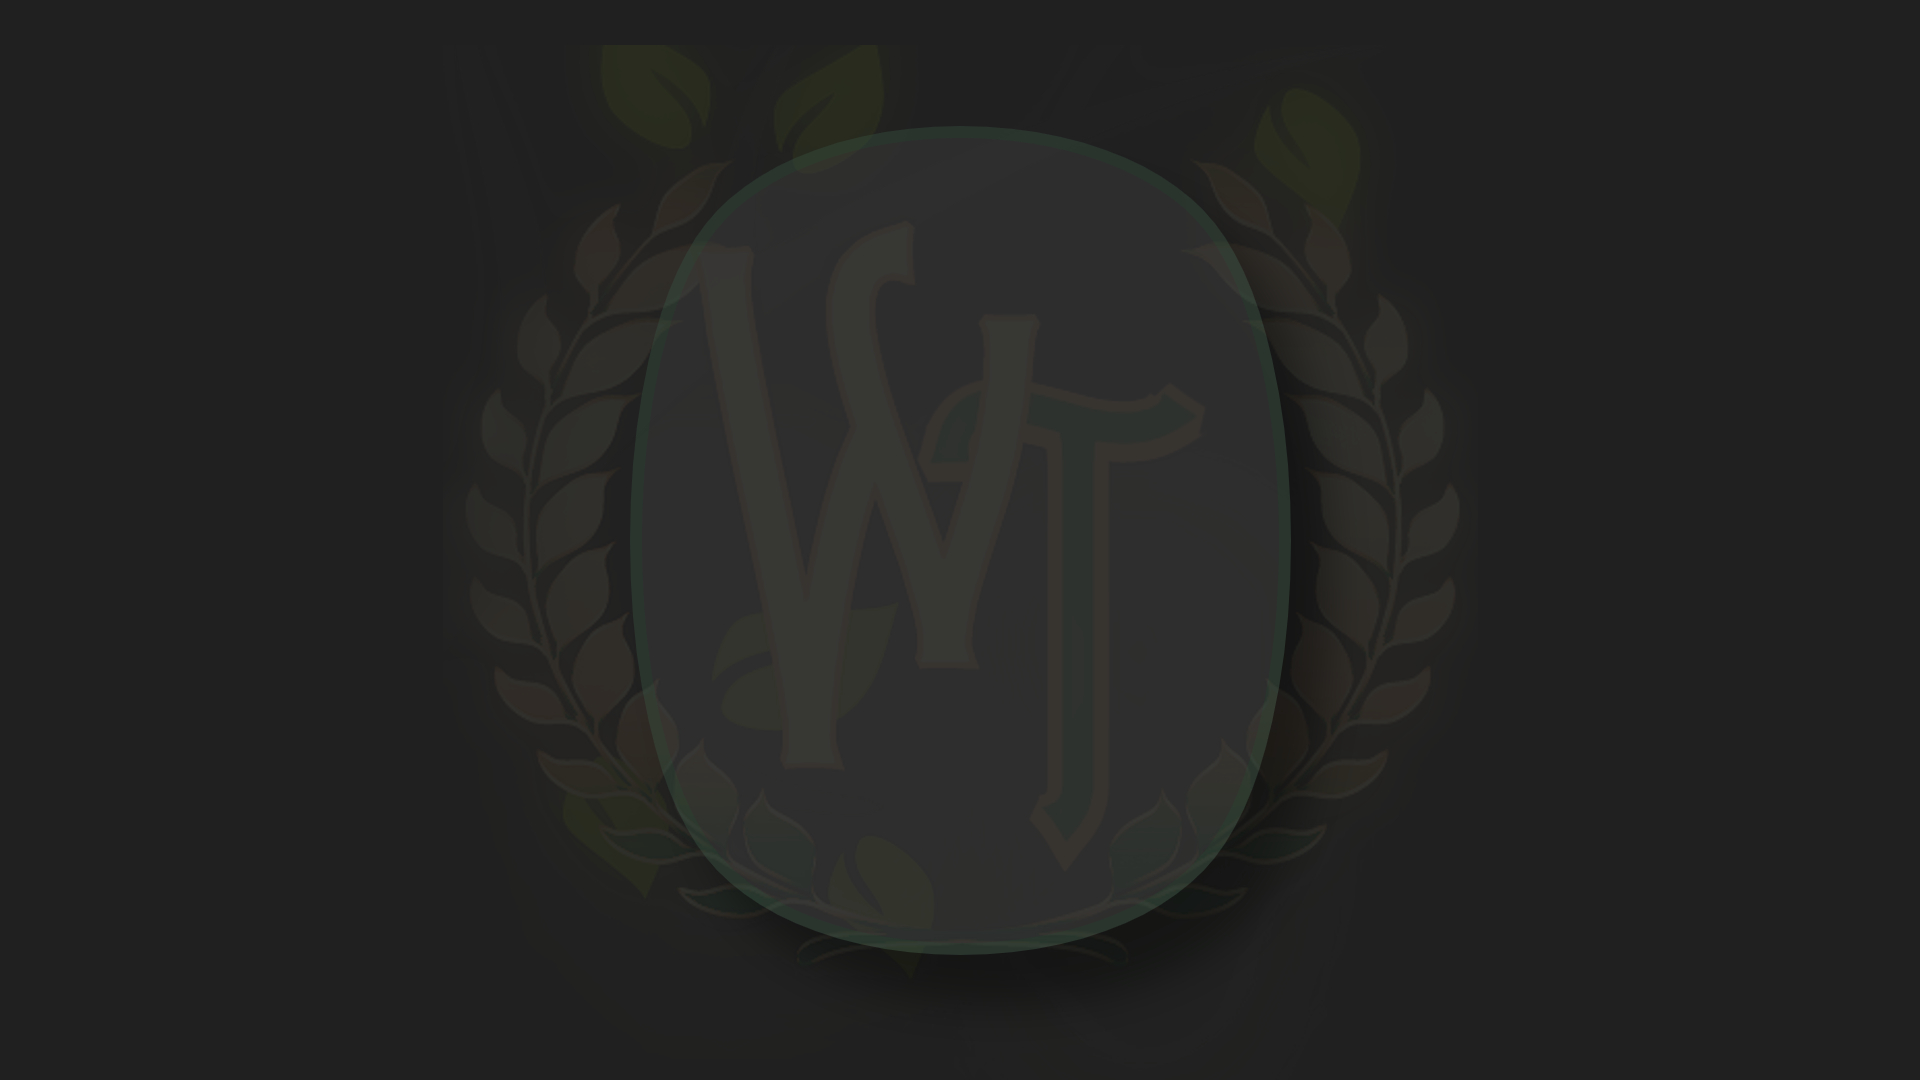
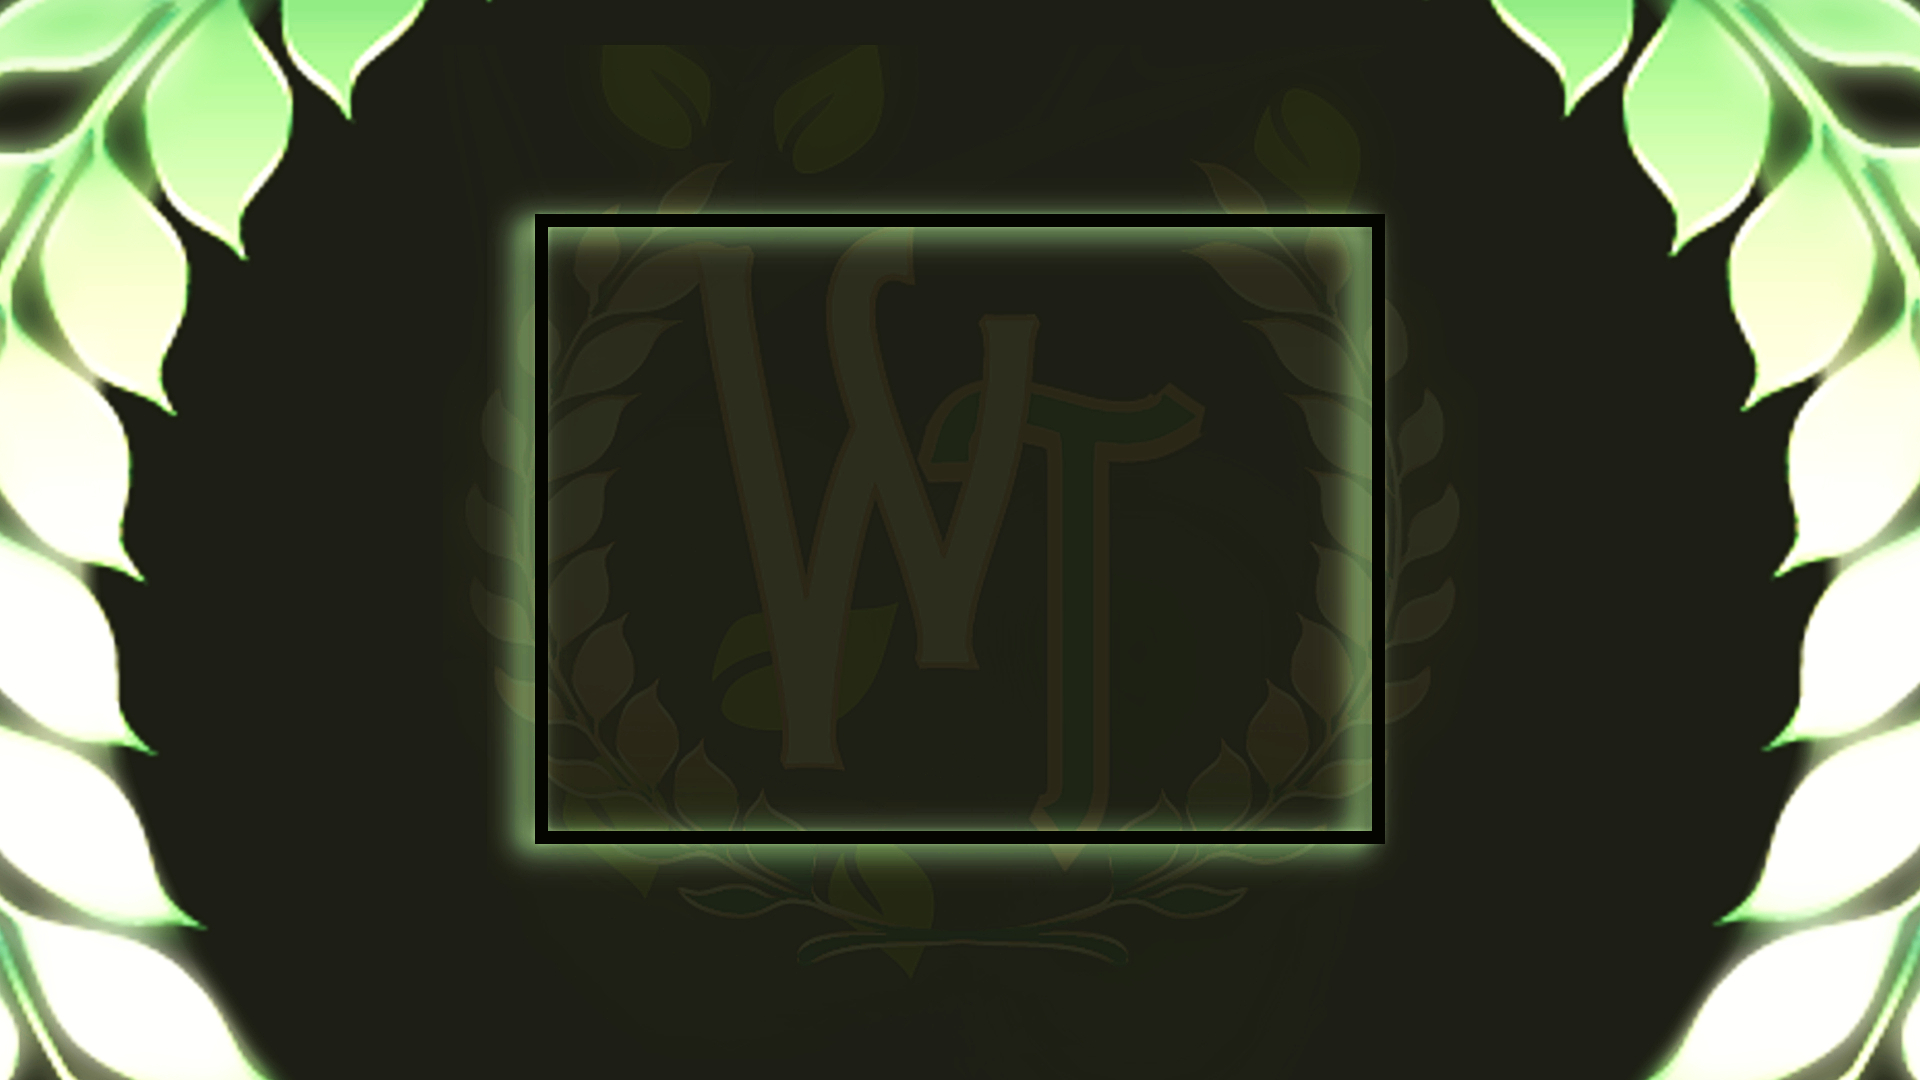
Page connexion finie
Du beau CSS avec une belle image de fond ouaiiiii

diff --git a/css/relook.css b/css/relook.css
@@ -1,0 +1,203 @@
+ @import url("https://fonts.googleapis.com/css?family=Inter:400,500,800");
+ @import url('https://fonts.googleapis.com/css2?family=Inter:wght@800&display=swap');
+
+
+.frame-1 {
+  align-items: center;
+  background-image: url("../background.png");
+  background-size: cover;
+  background-position: center;
+  border: 1px none;
+  display: flex;
+  flex-direction: column;
+  min-height: 960px;
+
+}
+
+.frame-1 input {
+  height: 60px;
+  border-radius: 20px;
+  font-size: 23px;
+  font-weight:500;
+}
+
+
+
+
+.hidden,
+.hidden * {
+  pointer-events: none;
+  visibility: hidden;
+}
+
+.conne-container {
+  height: 63px;
+  margin-right: 0.91px;
+  margin-top: 39px;
+  position: relative;
+  width: 199px;
+}
+
+.se-connecter {
+  font-weight: 800;
+  letter-spacing: 0;
+  line-height: normal;
+  width: 176px;
+  font-family: 'Inter', sans-serif;
+  color: black;
+  align-items: flex-end;
+  border: 1px solid;
+  border-color: #00000047;
+  border-radius: 22px;
+  box-shadow: 0px 4px 4px #00000040;
+  cursor: pointer;
+  height: 61px;
+  background-color: #d4feb2;
+  top: 1px;
+  transform: rotate(0.62deg);
+  transition: all 0.2s ease-in-out;
+  width: 198px;
+  font-size: 20px;
+  background-position-y: bottom 10%;
+}
+
+.se-connecter:hover{
+  background-color:#118a7e;
+  color : white;
+}
+.se-connecter:active {
+  background-color: pink;
+  color : white;
+}
+
+.code-personnel {
+  text-align: center;
+  color: white;
+  font-family: 'IM Fell Double Pica', serif;
+  font-size: 25px;
+  font-weight: 400;
+  letter-spacing: 0;
+  line-height: normal;
+  margin-left: 24px;
+  margin-top: 49px;
+  min-height: 37px;
+  min-width: 312px;
+}
+
+.frame-1 .overlap {
+  align-items: flex-start;
+  background-color: var(-*-white);
+  border-radius: 20px;
+  display: flex;
+  height: 77px;
+  margin-left: 21px;
+  min-width: 497px;
+}
+
+.overlap-group {
+  margin-top: 13px;
+  padding: 23px 21px;
+}
+
+.exemple {
+  letter-spacing: 0;
+  line-height: normal;
+  min-height: 29px;
+}
+
+.surname {
+  padding-top: 100px;
+  padding-bottom: 100px;
+  text-align: center;
+  color: white;
+  font-family: 'IM Fell Double Pica', serif;
+  font-size: 50px;
+  font-weight: 406;
+  letter-spacing: 0;
+  line-height: normal;
+  min-height: 80px;
+  min-width: 571px;
+  margin-bottom : -90px;
+}
+
+.overlap-group1 {
+  margin-top: 17px;2
+  padding: 22px 21px;
+}
+
+.champ-obligatoire {
+  color : white;
+  letter-spacing: 0;
+  line-height: normal;
+  margin-right: 3px;
+  margin-top: 11px;
+  min-height: 18px;
+  min-width: 145px;
+  text-align: center;
+}
+
+.span1 {
+  color: white;
+  font-family: 'Inter', sans-serif;
+  font-size: var(--font-size-s);
+  font-weight: 500;
+}
+
+.numero-de-compte {
+  text-align: center;
+  color: white;
+  font-family: 'IM Fell Double Pica', serif;
+  font-size: 25px;
+  font-weight: 408;
+  letter-spacing: 0;
+  line-height: normal;
+  margin-left: 24px;
+  margin-top: 105px;
+  min-height: 42px;
+  min-width: 410px;
+}
+
+oot {
+  --black-2
+: rgba(0, 0, 0, 0.569);
+  --black
+: rgba(0, 0, 0, 1);
+  --white
+: rgba(255, 255, 255, 1);
+
+  --font-size-s
+: 15px;
+  --font-size-m
+: 24px;
+  --font-size-l
+: 32px;
+  --font-size-xl
+: 36px;
+  --font-size-xxl
+: 64px;
+}
+.inter-normal-white-15px
+ {
+  color: var(--white
+);
+  font-family: 'Inter', sans-serif;
+);
+  font-size: var(--font-size-s
+);
+  font-weight: 400;
+  font-style: normal;
+}
+
+    
+
+.inter-medium-black-24px
+ {
+  color: var(--black-2
+);
+  font-family: 'Inter', sans-serif;
+  font-size: var(--font-size-m
+);
+  font-weight: 500;
+  font-style: normal;
+}
+

diff --git a/css/style.css b/css/style.css
@@ -20,9 +20,11 @@
 
 body{
     background-image: url("../background.png");
-    height: 100%;
-    background-position-y: 40%;
-    background-position-x: 50%;
+    background-repeat: no-repeat;
+    height: 200px;
+    background-position-y: bottom 40%;
+    background-position-x: 60%;
+    background-size:1500px;
     text-align: center;
 }
 
@@ -40,7 +42,7 @@ h1 {
 }
 
 h2{
-    font-size: 0.85vw;
+    font-size: 0.8vw;
     text-align: center;
 }
 
@@ -102,15 +104,13 @@ button{
     
 }
 
-
-
 .form-container{
     text-align: center;
     border-style: solid;
     border-radius: 5px;
     width: fit-content;
     margin: auto;
-    padding: 5px;
+    padding: 10px;
 }
 
 .data-container{
@@ -147,9 +147,7 @@ div.login-container h1 {
     opacity: 1;
 }
 
-.btn.btn-primary{
-    margin: 5px;
-}
+
 
 .btn.btn-tertiary{
     margin: 5px;
@@ -159,3 +157,11 @@ div.login-container h1 {
     margin: 5px;
 }
 
+#formulaire {
+
+    margin-top: 100px;
+    margin-bottom: 1052px;
+    margin: auto;
+    width: 700px;
+    border-radius: 20px;
+}

diff --git a/index.php b/index.php
@@ -67,36 +67,50 @@ checklogin();
         <link rel="icon" type="image/jpg" href="logo.jpg" />
         <title>Connexion</title>
         <link href="https://cdn.jsdelivr.net/npm/bootstrap@5.3.0-alpha1/dist/css/bootstrap.min.css" rel="stylesheet" integrity="sha384-GLhlTQ8iRABdZLl6O3oVMWSktQOp6b7In1Zl3/Jr59b6EGGoI1aFkw7cmDA6j6gD" crossorigin="anonymous">
-        <link rel="stylesheet" type="text/css" href="css/style.css">
+    
+        <link rel="stylesheet" type="text/css" href="css/relook.css">
+
+        <link rel="preconnect" href="https://fonts.googleapis.com">
+<link rel="preconnect" href="https://fonts.googleapis.com">
+<link rel="preconnect" href="https://fonts.gstatic.com" crossorigin>
+<link href="https://fonts.googleapis.com/css2?family=IM+Fell+Double+Pica&display=swap" rel="stylesheet">
+<link href="https://fonts.googleapis.com/css2?family=Inter:wght@800&display=swap" rel="stylesheet">
+
+
         <style>
         </style>
     </head>
 
     <body>
-        <div class="container">
-                <h1>
-                    WiseTreeBank
-                </h1>
+        <div class="">
             <div class="row">
-            <div class="col"></div>
             <div class="col" border: solid>
-                    <h2 id="connexion_title">
-                        Connectez-vous:
-                    </h2>
-                    <form action="index.php" method="post">
-                        <label for="userid">Numéro de compte*:</label><br>
-                        <input type="text" name="userid" placeholder="04123456789" pattern="[0-9]{11}" class="form-control" required ><br>
-                        <small>Format: 04123456789</small><br>
-
-                        <label for="password">Code Personnel*:</label><br>
-                        <input type="password" id="pwd" name="password" placeholder="123456" pattern="[0-9]{6}" class="form-control" required><br>
-                        <small>Format: 123456</small><br><br>
-                        
-                        <button name="login" class="btn btn-primary">Se connecter</button>
-                    </form>
-                    <p id="obligatory">
+    <div class="frame-1">
+      <h1 class="surname">WISE TREE BANK</h1>
+    <form action="index.php" method="post" id="formulaire">
+      <div class="numero-de-compte">NUMERO DE COMPTE*:</div>
+      <input type="text" name="userid" placeholder=" Exemple: 04123456789" pattern="[0-9]{11}" class="form-control" required >
+      <div class="overlap-groupoverlap">
+        <div class="exempleinter-medium-black-24px"></div>
+      </div>
+      <div class="code-personnel">CODE PERSONNEL*:</div>
+    <input type="password" id="pwd" name="password" placeholder=" Exemple: 123456" pattern="[0-9]{6}" class="form-control" required>
+      <div class="overlap-group1overlap">
+        <div class="exempleinter-medium-black-24px"></div>
+      </div>
+      <div class="conne-container">
+        <span class="inter-normal-white-15px"></span>
+      </div>
+           <p align="center"><button name="login" class="se-connecter">Se connecter</button>
+            <p class="champ-obligatoire">
                         * : Champ obligatoire
                     </p>
+                </p>
+                   
+    </div>
+                       
+                   
+                    </form>
                         <?php
                             if(isset($_POST['login']))
                             {
@@ -119,6 +133,7 @@ checklogin();
                                     }
                                 }
                                 switch(loginrequest())
+    
                                 {
                                     case 1:
                                     {
@@ -139,7 +154,6 @@ checklogin();
                                 echo "</div>";
                             }
                         ?></div>
-                <div class="col"></div>
             </div>
         </div>
     </body>
